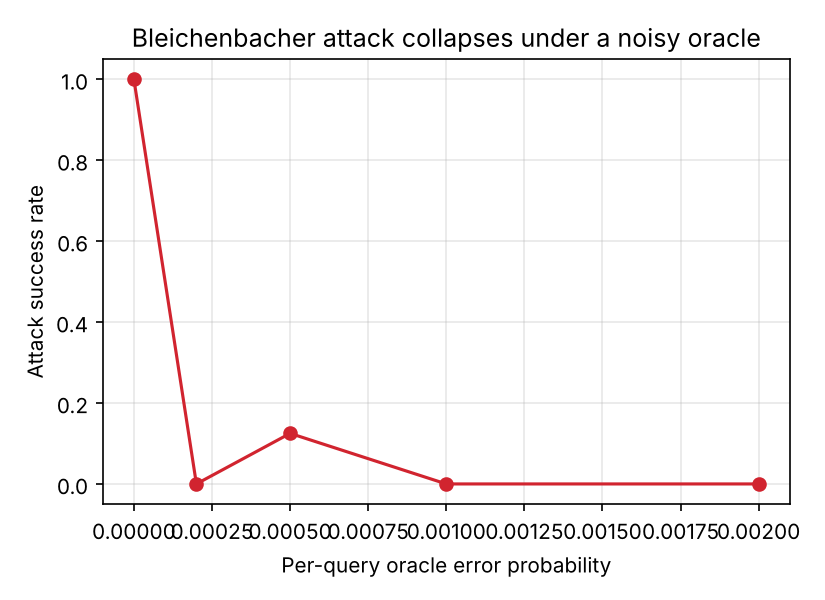
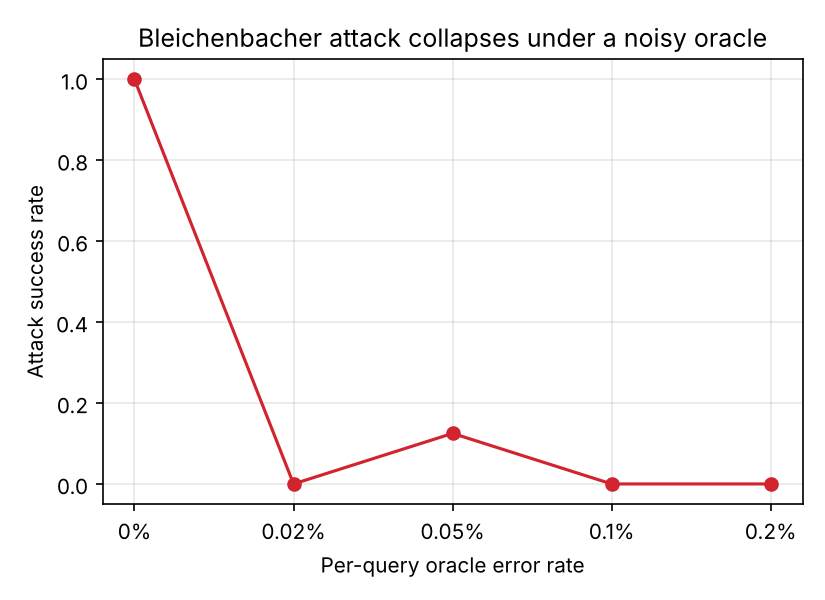
Plot x-axis formatting.

diff --git a/experiments/make_plots.py b/experiments/make_plots.py
@@ -58,12 +58,19 @@ def plot_bb_modulus_size():
 
 def plot_bb_noisy_oracle():
     rows = read_csv("bb_noisy_oracle.csv")
-    x = [r["p_error"] for r in rows]
+    # Plot against the index (evenly spaced) rather than the raw p_error
+    # value (unevenly spaced, near-zero), so points aren't crowded together
+    # and so we can label each one with just its own value, at the
+    # precision it actually needs, instead of letting matplotlib pick
+    # shared linear ticks across the full 0-0.002 range.
+    x_pos = list(range(len(rows)))
     y = [r["success_rate"] for r in rows]
+    labels = [f"{r['p_error'] * 100:g}%" for r in rows]
 
     plt.figure(figsize=(5.5, 4))
-    plt.plot(x, y, marker="o", color="#d1242f")
-    plt.xlabel("Per-query oracle error probability")
+    plt.plot(x_pos, y, marker="o", color="#d1242f")
+    plt.xticks(x_pos, labels)
+    plt.xlabel("Per-query oracle error rate")
     plt.ylabel("Attack success rate")
     plt.ylim(-0.05, 1.05)
     plt.title("Bleichenbacher attack collapses under a noisy oracle")
